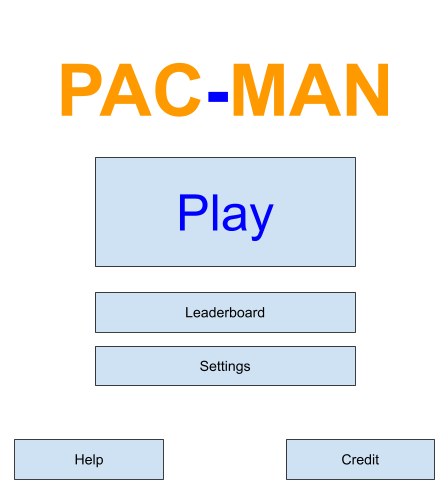
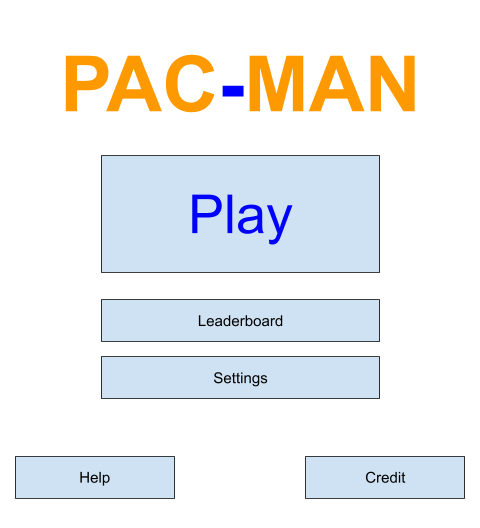
Add main menu interaction

diff --git a/src/Driver.java b/src/Driver.java
@@ -3,15 +3,13 @@ package src;
 import java.util.*;
 import javax.swing.*;
 import java.awt.*;
+import java.awt.event.*;
 import java.io.*;
 import javax.imageio.ImageIO;
 
 import src.ghost.*;
 
-@SuppressWarnings("serial")
-public class Driver extends JPanel implements Runnable{
-    // TODO: Jonathan, I think pickups can be implemented directly on the Maze class, if you decide to do so, make sure you update the Maze.isAccessible function
-
+public class Driver extends JPanel implements Runnable, MouseListener {
     private Thread thread;
 
     private Player player;
@@ -22,15 +20,15 @@ public class Driver extends JPanel implements Runnable{
         MAIN_MENU,
         GAME,
     }
-    private Screen currentScreen = Screen.GAME;
+    private Screen currentScreen = Screen.MAIN_MENU;
     private Map<Screen, Image> screens = new HashMap<Screen, Image>();
 
     public Driver() {
-        setPreferredSize(new Dimension(600, 600));
+        setPreferredSize(new Dimension(16 * 30, 16 * 33));
+        addMouseListener(this);
         setVisible(true);    
         thread = new Thread(this);
         thread.start();
-
     }
 
     public void run() {
@@ -63,22 +61,23 @@ public class Driver extends JPanel implements Runnable{
             setFocusable(true);
             maze.createTileSetComponent();
             maze.generateShortestPathMatrix();
-            ghosts.get(3).setScared();
         } catch (Exception e) {
             e.printStackTrace();
         };
     }
 
     public void update() {
-        player.nextFrame(maze);
-        player.updatePosition(maze);
-        boolean scare = player.getScary();
-         for (Ghost ghost: ghosts) {
-            if(scare&&ghost.scaredFrameTimer == 0)
-                ghost.setScared();
-            ghost.nextFrame(maze, player);
-            ghost.updatePosition(maze, player);
-         }
+        if (currentScreen == Screen.GAME) {
+            player.nextFrame(maze);
+            player.updatePosition(maze);
+            boolean scare = player.getScary();
+            for (Ghost ghost: ghosts) {
+                if(scare&&ghost.scaredFrameTimer == 0)
+                    ghost.setScared();
+                ghost.nextFrame(maze, player);
+                ghost.updatePosition(maze, player);
+            }
+        }
     }
 
     public void paintComponent(Graphics g) {
@@ -116,12 +115,39 @@ public class Driver extends JPanel implements Runnable{
         }
     }
 
+    private boolean rectangleClicked(MouseEvent e, int topLeftX, int topLeftY, int bottomRightX, int bottomRightY) {
+        return (topLeftX <= e.getX() && e.getX() <= bottomRightX && topLeftY <= e.getY() && e.getY() <= bottomRightY);
+    }
+
+    public void mousePressed(MouseEvent e) {
+        if (currentScreen == Screen.MAIN_MENU) {
+            if (rectangleClicked(e, 101, 155, 379, 272)) {
+                currentScreen = Screen.GAME;
+            }
+            else if (rectangleClicked(e, 101, 299, 379, 341)) {
+                // clicked leaderboard
+            }
+            else if (rectangleClicked(e, 101, 356, 379, 398)) {
+                // clicked settings
+            }
+            else if (rectangleClicked(e, 15, 456, 174, 498)) {
+                // clicked help
+            }
+            else if (rectangleClicked(e, 305, 456, 464, 498)) {
+                // clicked credit
+            }
+        }
+    }
+    public void mouseClicked(MouseEvent e) {}
+    public void mouseReleased(MouseEvent e) {}
+    public void mouseExited(MouseEvent e) {}
+    public void mouseEntered(MouseEvent e) {}
+
     public static void main(String[] args) throws IOException {
         JFrame frame = new JFrame("Pac-Man");
         JPanel panel = new Driver();
         frame.add(panel);
         // frame.addKeyListener(panel);
-        // frame.addMouseListener(panel);
         frame.setVisible(true);
         frame.pack();
         frame.setDefaultCloseOperation(JFrame.EXIT_ON_CLOSE);
